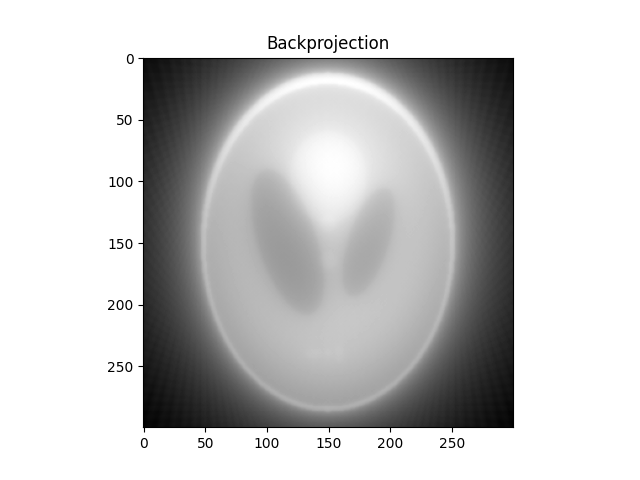
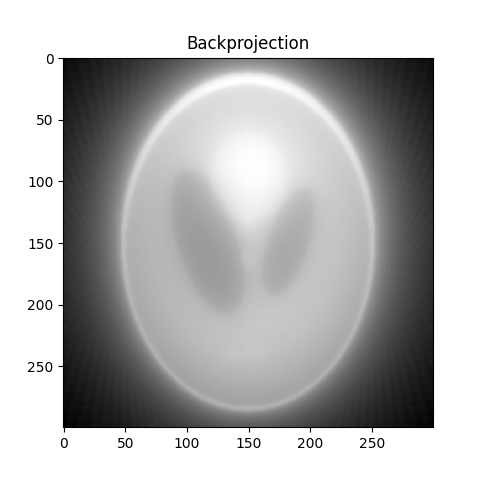
Fix for image sizes in the documentation.

diff --git a/doc/source/getting_started.rst b/doc/source/getting_started.rst
@@ -181,16 +181,18 @@ and backprojection of a phantom:
     plt.imshow(backproj.get(), cmap="gray")
     plt.show()
 
+
 The following depicts the plots created by this example.
 
-.. image:: graphics/phantom-1.png
-    :width: 5000
+.. table::
+    :widths: 47 25 47
 
-.. image:: graphics/sinogram-1.png
-    :width: 5000
-
-.. image:: graphics/backprojection-1.png
-    :width: 5000
+    +----------------------------------------+-------------------------------------+------------------------------------------+
+    | .. image:: graphics/phantom-1.png      | .. image:: graphics/sinogram-1.png  | .. image:: graphics/backprojection-1.png |
+    |      :width: 250                       |      :width: 125                    |       :width: 250                        |
+    |      :height: 250                      |      :height: 250                   |       :height: 250                       |
+    |      :align: center                    |      :align: center                 |       :align: center                     |
+    +----------------------------------------+-------------------------------------+------------------------------------------+
 
 
 Second example: Fanbeam transform

diff --git a/doc/source/index.rst b/doc/source/index.rst
@@ -31,10 +31,11 @@ The gratopy_ (**Gr**\az **a**\ccelerated **to**\mographic projections for **Py**
                    \end{minipage}
 
 .. table:: The fanbeam projection of a walnut and gratopy's Landweber and total variation reconstructions (from left to right).
-    :widths: 20 40 40
+    :widths: 65 160 160
 
     +----------------------------------------+-------------------------------------+------------------------------------------+
     | .. image:: graphics/walnut_sinogram.png| .. image:: graphics/landweber.png   | .. image:: graphics/total_variation.png  |
+    |      :width: 91                        |      :width: 250                    |       :width: 250                        |
     |      :height: 250                      |      :height: 250                   |       :height: 250                       |
     |      :align: center                    |      :align: center                 |       :align: center                     |
     +----------------------------------------+-------------------------------------+------------------------------------------+
